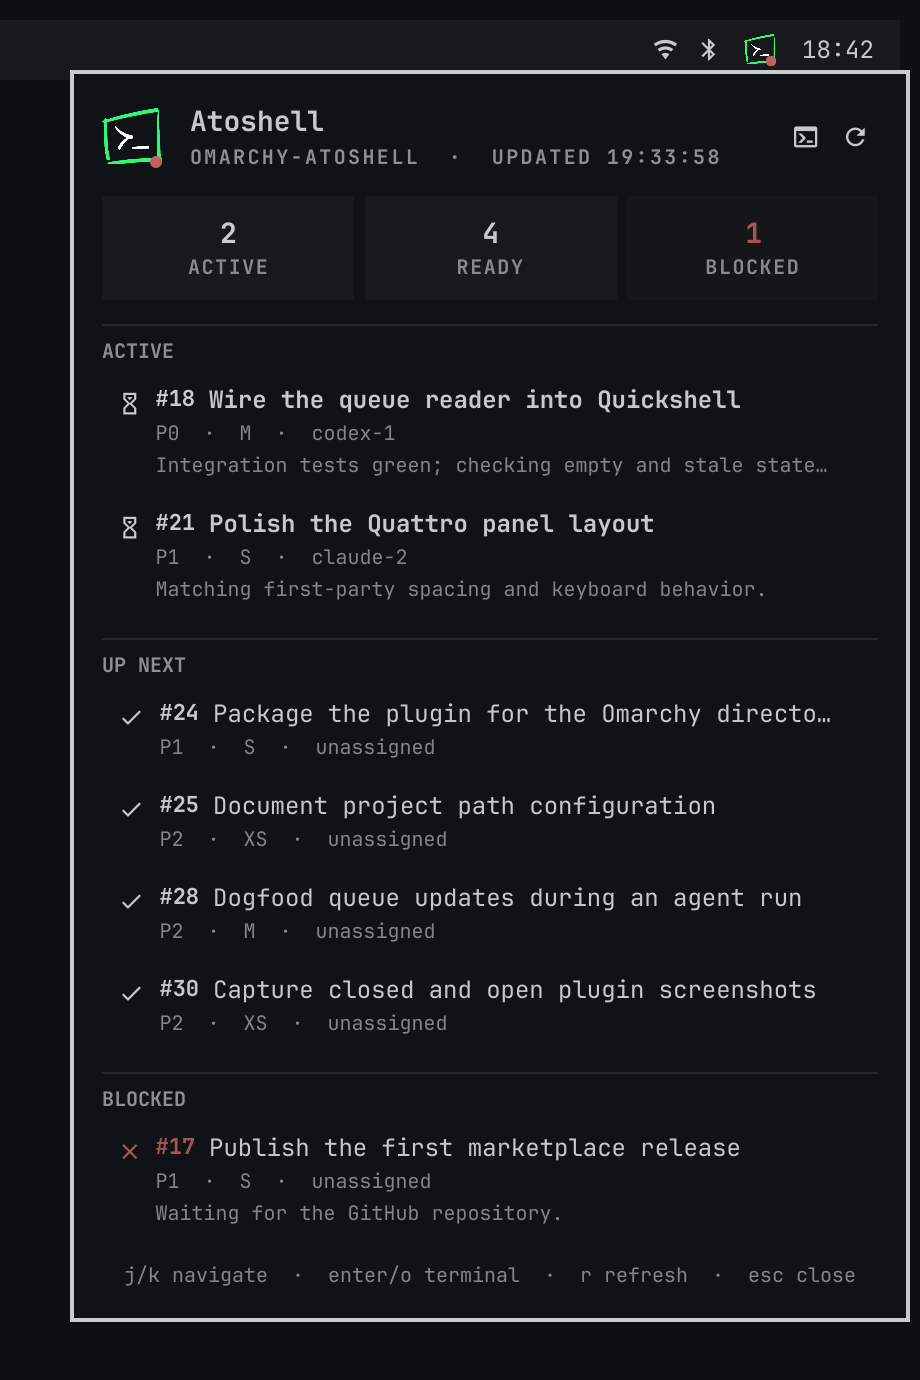
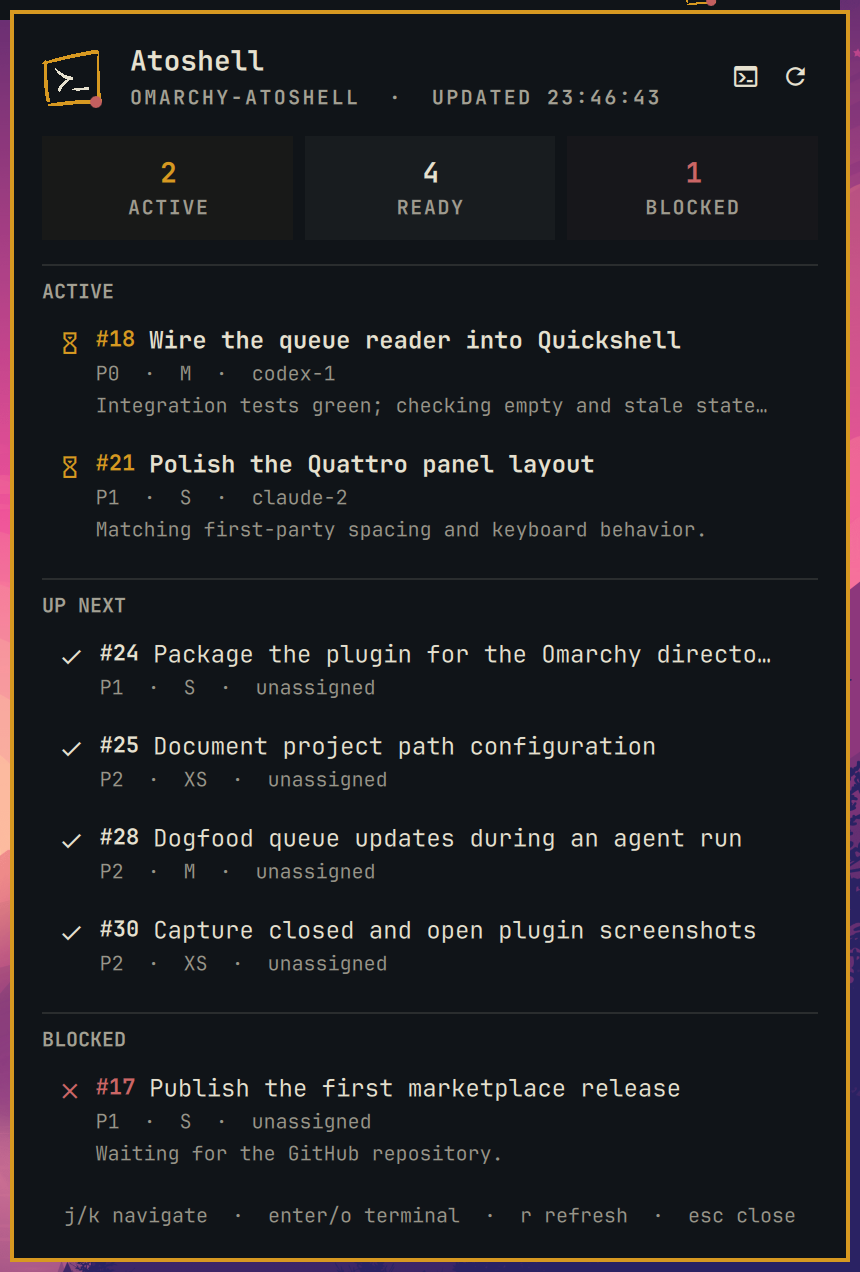
feat: adapt the Atoshell mark to Omarchy themes

diff --git a/AtoshellMark.qml b/AtoshellMark.qml
@@ -1,0 +1,90 @@
+import QtQuick
+import QtQuick.Shapes
+import qs.Commons
+
+Item {
+    id: root
+
+    // Runtime treatment: the hand-drawn outer shell carries the user's theme
+    // accent; the prompt remains ordinary foreground so the mark stays a logo,
+    // not a terminal affordance.
+    property color frameColor: Color.accent
+    property color promptColor: Color.foreground
+    property bool componentReady: false
+    property bool shapeRebuildPending: false
+    readonly property real fittedScale: Math.min(width / 261, height / 247)
+
+    function scheduleShapeRebuild() {
+        if (!componentReady || shapeRebuildPending)
+            return ;
+
+        shapeRebuildPending = true;
+        shapeLoader.active = false;
+        Qt.callLater(function() {
+            shapeLoader.active = true;
+            shapeRebuildPending = false;
+        });
+    }
+
+    Component.onCompleted: componentReady = true
+    onFrameColorChanged: scheduleShapeRebuild()
+    onPromptColorChanged: scheduleShapeRebuild()
+
+    Loader {
+        id: shapeLoader
+
+        anchors.fill: parent
+
+        sourceComponent: Component {
+            Item {
+                width: shapeLoader.width
+                height: shapeLoader.height
+
+                Shape {
+                    width: 261
+                    height: 247
+                    x: (root.width - width * scale) / 2
+                    y: (root.height - height * scale) / 2
+                    scale: root.fittedScale
+                    transformOrigin: Item.TopLeft
+                    antialiasing: true
+
+                    ShapePath {
+                        fillColor: root.frameColor
+                        strokeWidth: 0
+
+                        PathSvg {
+                            path: "M200.396 6.36333C142.229 16.3446 61.4118 35.7628 27.1642 47.9219C20.2784 50.2811 19.916 50.2811 18.8288 46.833C17.1979 41.9331 11.7618 43.2034 11.037 48.4663C10.6746 50.644 8.1377 53.7292 5.05723 55.181C-1.46613 58.6291 -1.64733 61.1698 4.33241 62.6216L8.86252 63.7105V98.5543C8.86252 145.557 10.3122 170.783 14.4799 197.641C19.1912 228.13 18.6476 226.678 27.3454 226.678H34.7748L33.6875 218.874C33.1439 214.7 31.5131 203.812 29.8822 194.919C28.2514 185.845 26.6206 175.683 26.2581 172.234C24.6273 159.35 21.0032 63.3475 21.9092 62.2586C22.4529 61.7142 31.5131 59.355 41.8417 56.8143C51.9892 54.4551 69.566 50.2811 80.4383 47.7404C130.994 35.9443 225.945 17.9779 238.086 17.9779C242.616 17.9779 242.616 18.1594 241.348 28.3222C240.623 34.1295 240.079 78.5917 239.898 127.228V215.608L225.402 216.515C217.429 217.06 193.872 218.33 173.034 219.419C132.263 221.597 102.726 224.5 62.3178 230.489C31.8755 234.845 23.3589 237.022 23.3589 240.107C23.3589 247.729 44.9222 248.274 98.5587 242.285C131.538 238.474 168.866 235.933 209.093 234.845C261.28 233.211 260.737 233.393 260.737 221.052C260.737 217.604 259.831 215.789 258.019 215.789C256.025 215.789 255.301 213.793 255.301 208.712C255.301 198.186 251.858 120.15 250.77 109.624C250.408 104.543 249.502 80.0435 248.777 55.181C247.69 7.63368 246.421 -0.35137 239.898 0.0115863C237.905 0.0115863 220.147 2.91524 200.396 6.36333Z"
+                        }
+
+                    }
+
+                    ShapePath {
+                        fillColor: root.promptColor
+                        strokeWidth: 0
+
+                        PathSvg {
+                            path: "M55.7437 81.2636C55.7437 89.7312 78.9725 113.873 97.3015 124.322L107.283 130.087L102.746 132.79C89.4981 141.437 72.8023 161.075 69.3543 172.245C68.084 176.569 72.4394 183.415 76.4318 183.415C77.5207 183.415 81.3317 178.01 84.7797 171.164C88.5907 163.777 96.0312 154.049 104.198 145.941C117.082 132.79 117.445 132.61 124.523 133.871C132.145 135.132 132.689 134.771 134.504 127.205C136.137 120.539 132.326 117.476 120.712 116.215C106.012 114.413 82.4205 102.162 69.7172 89.3709C59.0102 78.9215 55.7437 76.9398 55.7437 81.2636Z"
+                        }
+
+                    }
+
+                    ShapePath {
+                        fillColor: root.promptColor
+                        strokeWidth: 0
+
+                        PathSvg {
+                            path: "M175.766 165.4C145.809 167.628 129.469 170.413 129.469 173.755C129.469 177.839 135.461 178.396 170.138 177.839L202.637 177.282L204.453 171.898C206.087 166.7 203.908 162.987 199.369 163.73C198.461 163.73 187.749 164.658 175.766 165.4Z"
+                        }
+
+                    }
+
+                }
+
+            }
+
+        }
+
+    }
+
+}

diff --git a/BarWidget.qml b/BarWidget.qml
@@ -162,14 +162,10 @@ Panel {
     text: ""
     iconComponent: Component {
       Item {
-        Image {
+        AtoshellMark {
           anchors.fill: parent
-          source: Qt.resolvedUrl("assets/atoshell-mark.svg")
-          fillMode: Image.PreserveAspectFit
-          sourceSize.width: 128
-          sourceSize.height: 128
-          smooth: true
-          mipmap: true
+          frameColor: Color.accent
+          promptColor: root.foreground
         }
         Rectangle {
           visible: Number((root.snapshot.counts || {}).blocked || 0) > 0
@@ -183,8 +179,6 @@ Panel {
       }
     }
     active: Number((root.snapshot.counts || {}).active || 0) > 0 || Number((root.snapshot.counts || {}).blocked || 0) > 0
-    useActiveColor: true
-    activeColor: Number((root.snapshot.counts || {}).blocked || 0) > 0 ? root.urgent : Color.accent
     tooltipText: root.serviceState !== "ok" && root.serviceMessage !== ""
       ? Model.autoTextSafe(root.serviceMessage)
       : Model.barTooltip(root.snapshot, root.refreshing)
@@ -245,14 +239,10 @@ Panel {
               Item {
                 width: Style.space(30)
                 height: width
-                Image {
+                AtoshellMark {
                   anchors.fill: parent
-                  source: Qt.resolvedUrl("assets/atoshell-mark.svg")
-                  fillMode: Image.PreserveAspectFit
-                  sourceSize.width: 128
-                  sourceSize.height: 128
-                  smooth: true
-                  mipmap: true
+                  frameColor: Color.accent
+                  promptColor: root.foreground
                 }
                 Rectangle {
                   visible: Number((root.snapshot.counts || {}).blocked || 0) > 0

diff --git a/tests/test-contract.py b/tests/test-contract.py
@@ -22,13 +22,23 @@ schema = {item["key"]: item for item in widget["schema"]}
 assert schema["projectPath"]["type"] == "path"
 assert schema["refreshIntervalSec"]["type"] == "integer"
 
-for name in ("BarWidget.qml", "Service.qml", "TicketRow.qml", "QueueSummary.qml"):
+for name in ("BarWidget.qml", "Service.qml", "TicketRow.qml", "QueueSummary.qml", "AtoshellMark.qml"):
     path = ROOT / name
     assert path.is_file(), f"missing {name}"
     source = path.read_text()
     assert not re.search(r'#[0-9a-fA-F]{6}', source), f"hard-coded color in {name}"
 
 assert (ROOT / "assets" / "atoshell-mark.svg").is_file(), "missing canonical Atoshell vector mark"
+
+mark = (ROOT / "AtoshellMark.qml").read_text()
+assert "property color frameColor" in mark
+assert "property color promptColor" in mark
+assert "fillColor: root.frameColor" in mark
+assert mark.count("fillColor: root.promptColor") == 2
+assert "PathSvg" in mark, "runtime mark should preserve the canonical hand-drawn paths"
+assert "onFrameColorChanged: scheduleShapeRebuild()" in mark
+assert "onPromptColorChanged: scheduleShapeRebuild()" in mark
+assert "shapeLoader.active = false" in mark, "theme switches must rebuild the tiny cached Shape"
 
 helper = (ROOT / "bin" / "atoshell-snapshot").read_text()
 assert 'cd -- "$project"' in helper
@@ -39,7 +49,12 @@ bar = (ROOT / "BarWidget.qml").read_text()
 assert "KeyboardPanel" in bar
 assert "PanelKeyCatcher" in bar
 assert "PanelHero" in bar
-assert 'assets/atoshell-mark.svg' in bar
+assert bar.count("AtoshellMark {") == 2
+assert bar.count("frameColor: Color.accent") == 2
+assert bar.count("promptColor: root.foreground") == 2
+assert "useActiveColor" not in bar
+assert "activeColor:" not in bar, "queue state must not recolor anything beyond the mark frame"
+assert 'assets/atoshell-mark.svg' not in bar, "fixed-color brand SVG must not drive the runtime mark"
 assert "ACTIVE" in bar and "UP NEXT" in bar and "BLOCKED" in bar
 assert "textFormat: Text.PlainText" in bar
 

diff --git a/docs/design-research.md b/docs/design-research.md
@@ -40,7 +40,7 @@ The tagged [`Style.qml`](https://github.com/basecamp/omarchy/blob/v4.0.0/shell/C
 - default normal fill is 4%, hover/cursor fill 8%, selected fill 18%; cursor color transition is 60 ms;
 - default horizontal bar is 26 px, with a 27 px icon slot and 16 px optical canvas.
 
-**Decision:** production QML contains no hex colors and no independent font, radius, shadow, or spacing system. It binds to `Color`, `Style`, `Border`, and the live bar.
+**Decision:** production QML contains no hex colors and no independent font, radius, shadow, or spacing system. It binds to `Color`, `Style`, `Border`, and the live bar. The runtime Atoshell mark preserves the canonical hand-drawn paths but separates their semantic colors: only the crooked outer frame uses `Color.accent`, while the inner `>_` uses the normal foreground. The fixed green-and-white artwork remains the standalone brand asset rather than being forced into the themed shell.
 
 ### Panel composition
 
@@ -90,7 +90,7 @@ Useful pattern: cheap local refresh and no external account dependency.
 
 ## Information hierarchy
 
-1. **Bar glyph:** neutral when only ready work exists; accent when agents are active; urgent when blocked work exists. Tooltip carries counts so the bar keeps Quattro's icon-only rhythm.
+1. **Bar glyph:** the crooked outer frame always carries the live theme accent and the inner `>_` stays on the ordinary bar foreground; a separate urgent dot appears only when blocked work exists. Tooltip carries counts so the bar keeps Quattro's icon-only rhythm.
 2. **Hero:** Atoshell + current project + precise snapshot time. Refresh and project-terminal actions are compact trailing controls.
 3. **Three-count strip:** Active / Ready / Blocked, all compact and equal in geometry. This is a queue legend, not a dashboard KPI treatment.
 4. **Active:** first because it answers what agents are doing now. Bold title, accountable identity, latest progress comment.

diff --git a/README.md b/README.md
@@ -6,13 +6,13 @@ A small, read-only Omarchy Quattro panel for watching an Atoshell queue while co
 
 **Closed — a quiet bar indicator; the urgent color means the queue has a blocker:**
 
-![Atoshell Queue closed in the Omarchy bar](docs/screenshots/atoshell-queue-closed-crop.png)
+![Atoshell Queue closed in the Omarchy bar](docs/screenshots/hires/atoshell-queue-closed-crop-2x.png)
 
 **Open — active agent work, Atoshell-ranked next tickets, and blockers:**
 
-![Atoshell Queue panel open](docs/screenshots/atoshell-queue-open-crop.png)
+![Atoshell Queue panel open](docs/screenshots/hires/atoshell-queue-open-crop-2x.png)
 
-These are captures of the real plugin QML running under Quickshell in an isolated wlroots compositor with representative queue data, not HTML mockups. The production plugin renders the canonical SVG directly for crisp scaling; a 128×128 transparent PNG derivative is retained for raster-only uses.
+These are lossless captures of the real plugin QML rendered through Quickshell's Qt OpenGL/RHI scenegraph on a temporary off-screen Hyprland output, using representative queue data—not HTML mockups. The runtime mark preserves the canonical hand-drawn paths: only its outer frame follows the active theme accent, while the inner `>_` follows the normal foreground. The fixed green-and-white SVG and 128×128 PNG remain the standalone Atoshell brand assets.
 
 ## What v1 shows
 
@@ -44,7 +44,7 @@ curl -fsSL https://raw.githubusercontent.com/GeekKingCloud/atoshell/main/install
 Once this repository is published:
 
 ```bash
-omarchy plugin add https://github.com/GeekKingCloud/omarchy-atoshell.git --enable
+omarchy plugin add https://github.com/GeekKingCloud/atoshell-omarchy.git --enable
 ```
 
 For local development, link the checkout into Omarchy's third-party plugin directory, then rescan:
